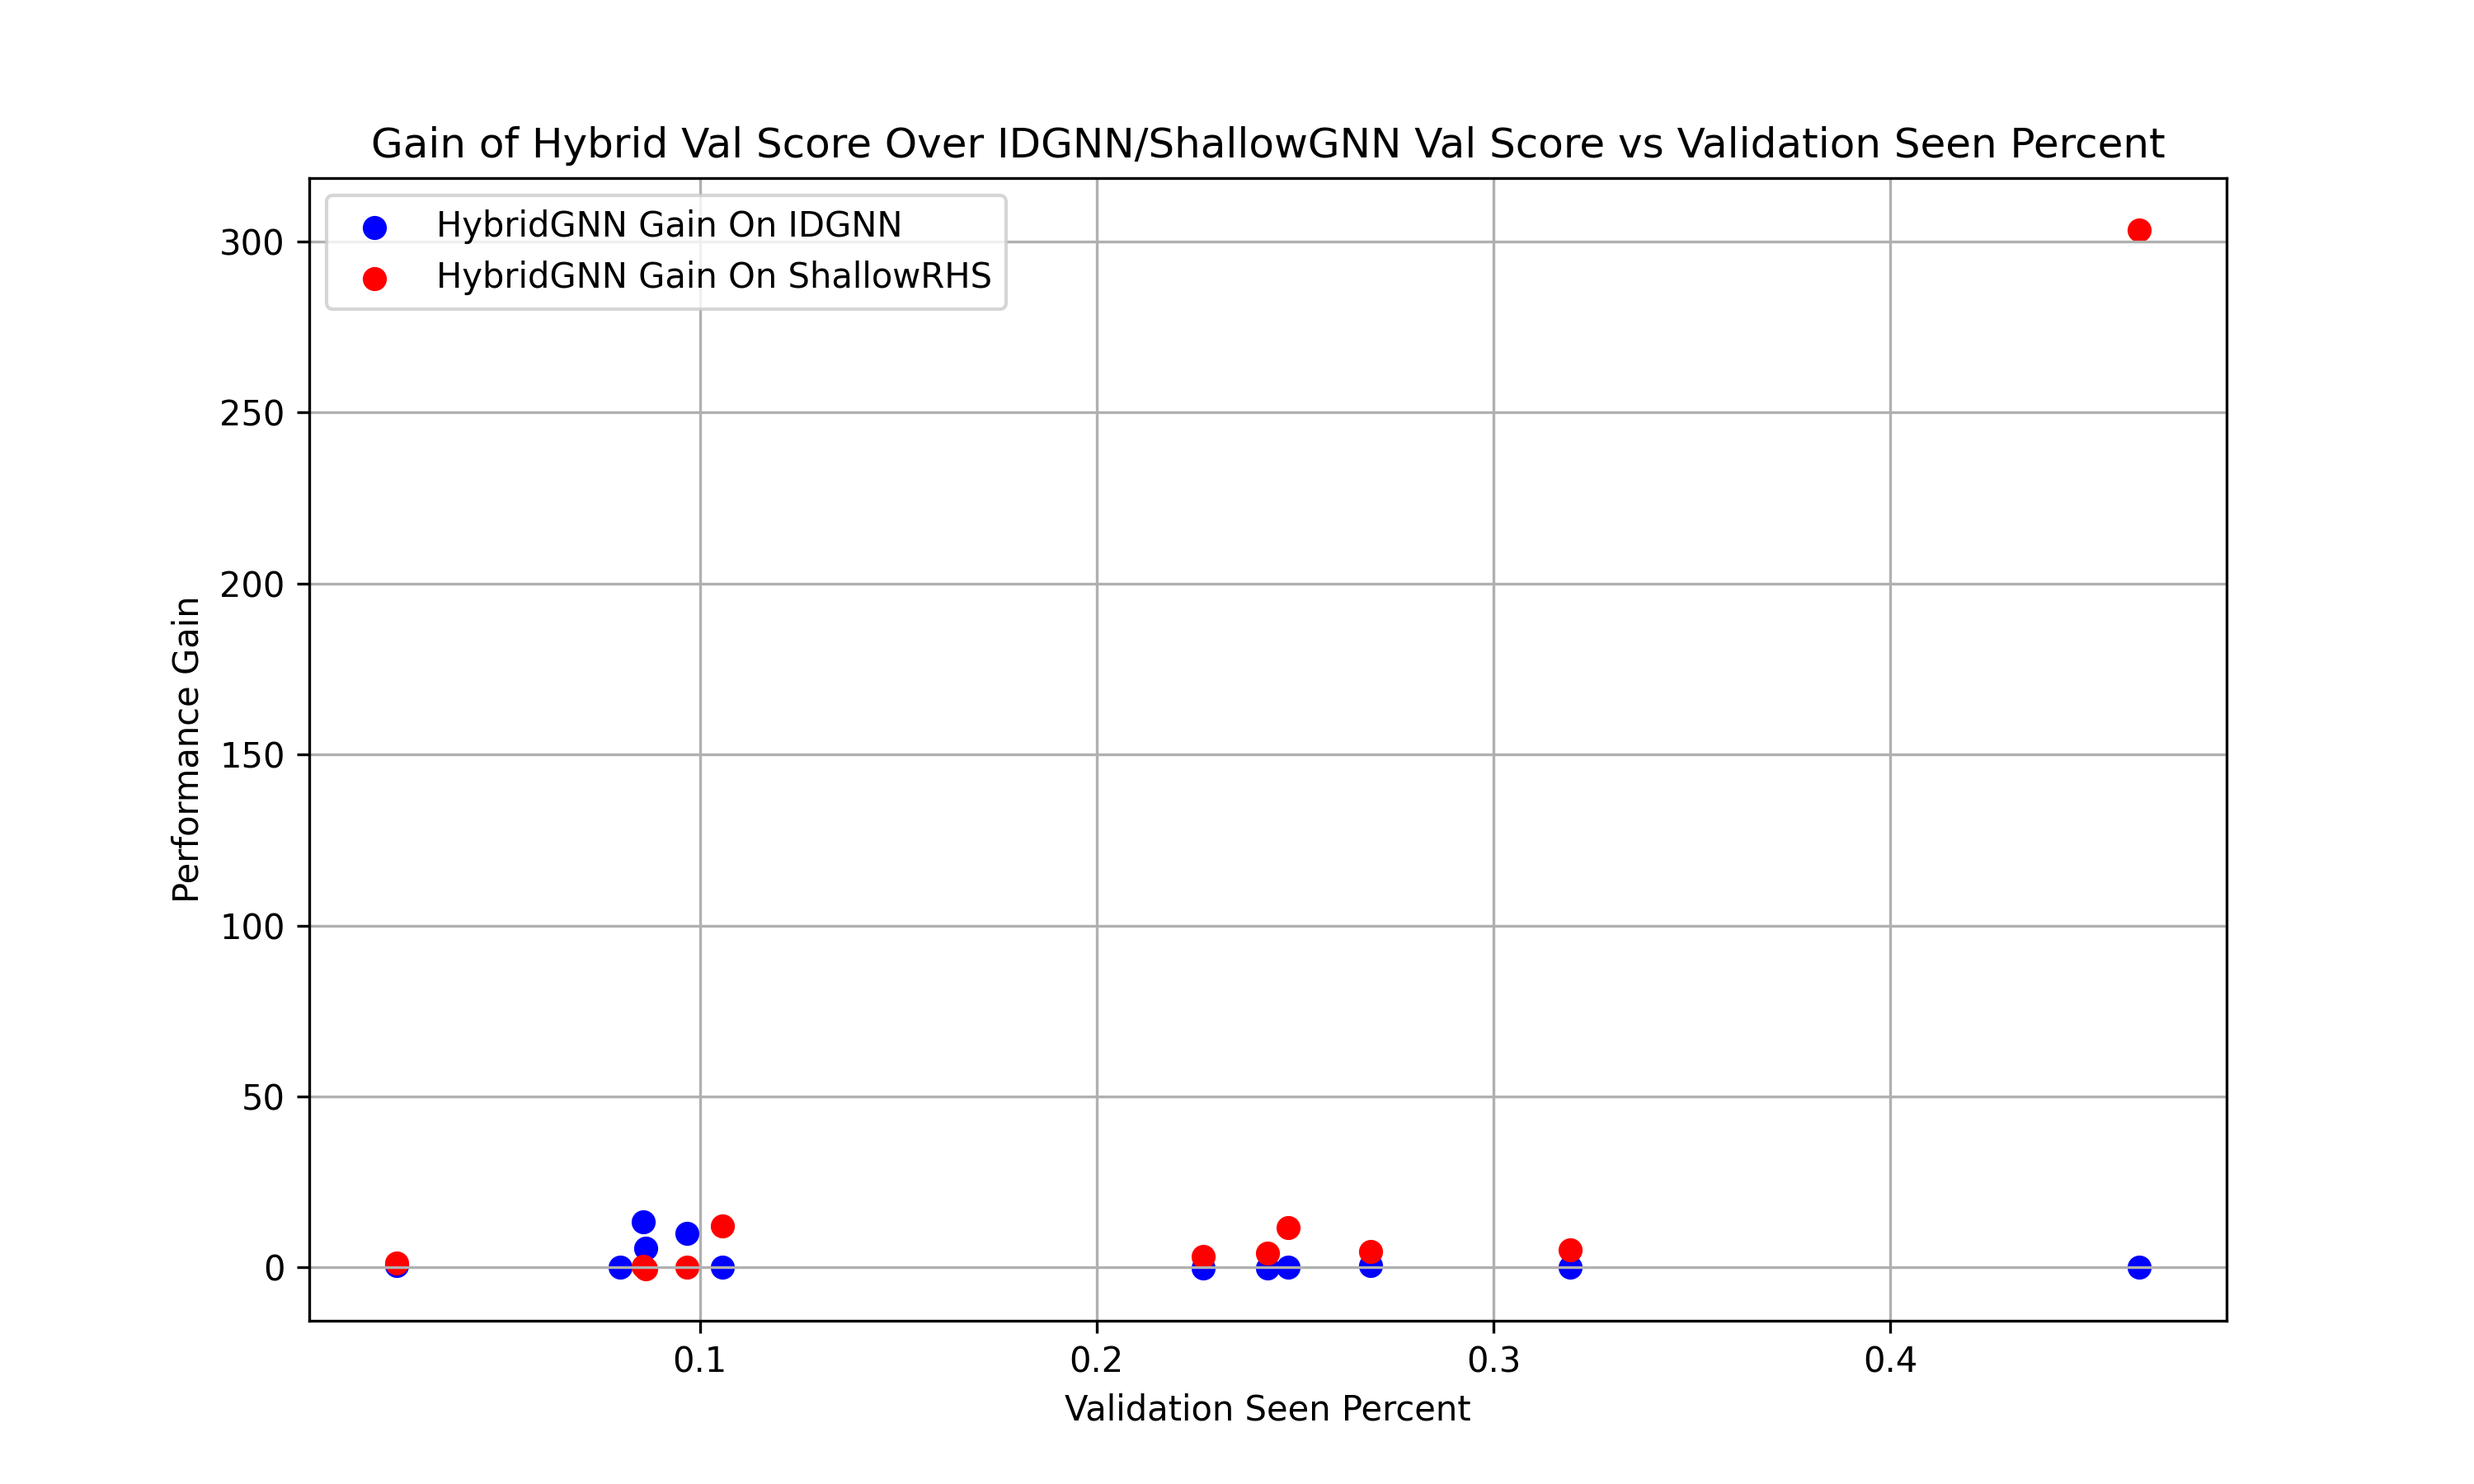
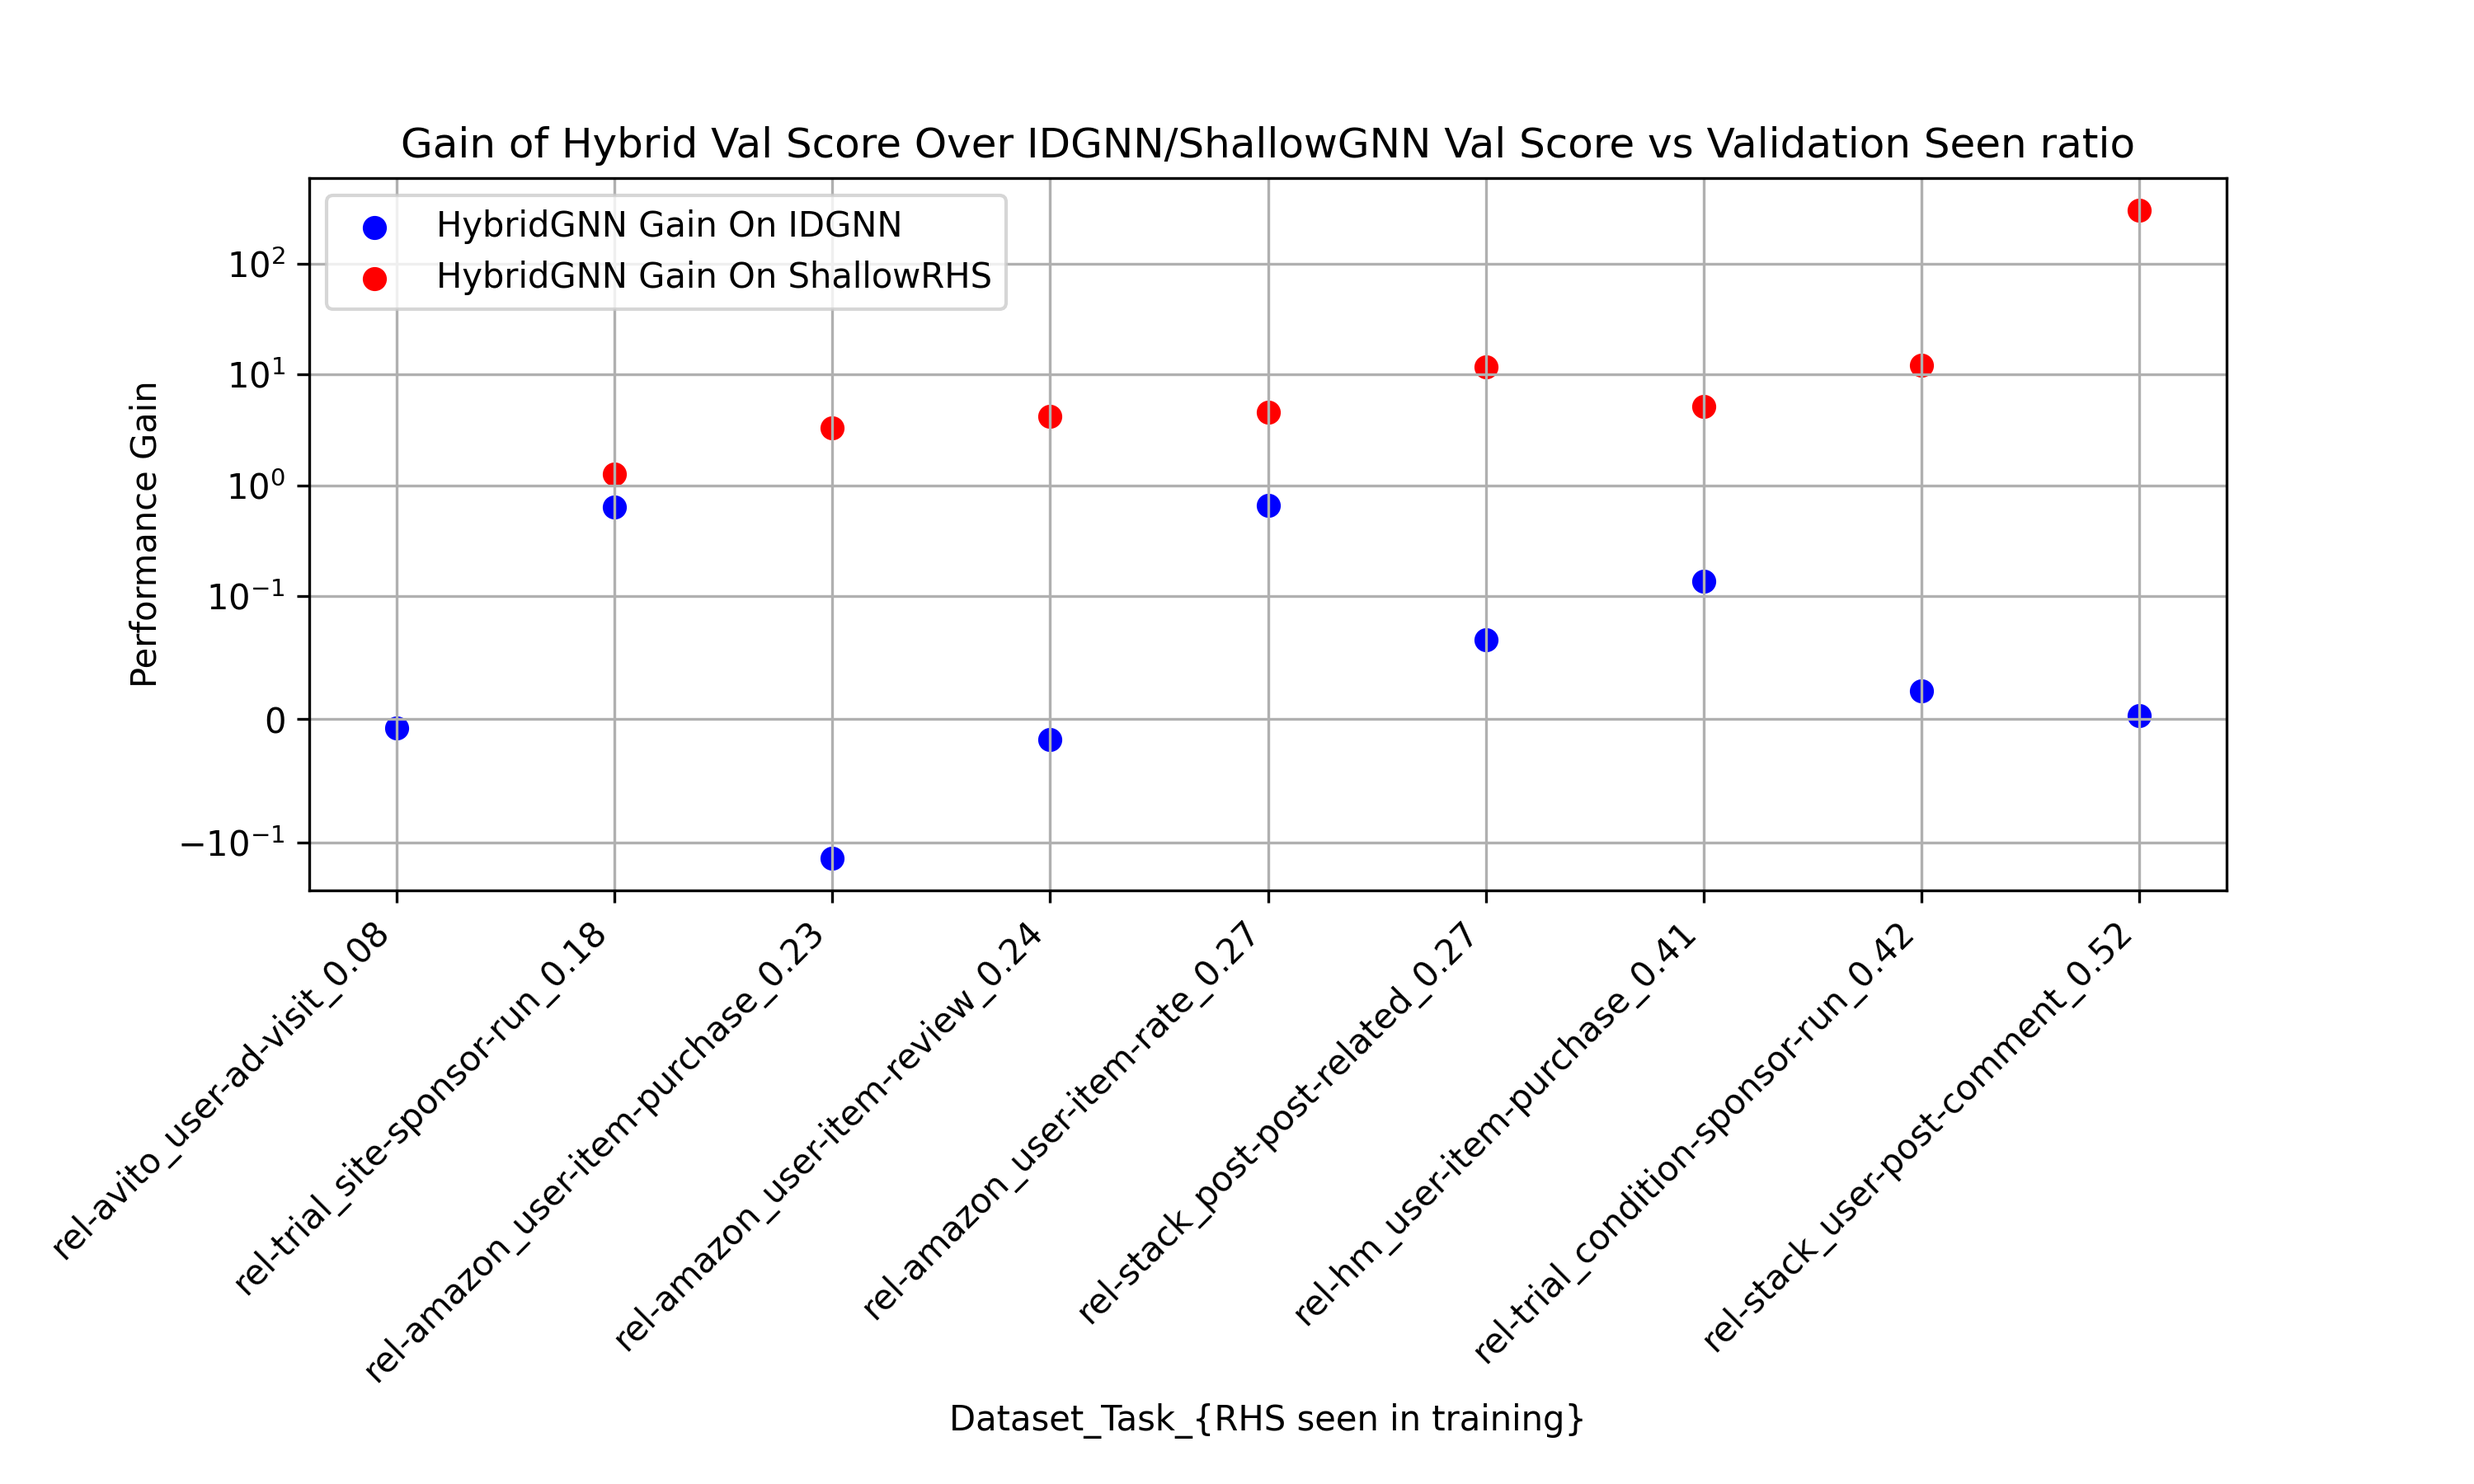
wip

diff --git a/scripts/create_distribution_graph.py b/scripts/create_distribution_graph.py
@@ -6,19 +6,35 @@ def generate_performance_gain(df):
     # Calculate % gain = ((hybrid_test_score - id_test_score) / id_test_score) * 100
     df['val_gain_on_id'] = ((df['hybrid_val_score'] - df['id_val_score']) / df['id_val_score'])
     df['val_gain_on_shallow'] = ((df['hybrid_val_score'] - df['shallow_val_score']) / df['shallow_val_score'])
-
+    df = df.sort_values(by='val_seen_ratio')
+    df['val_seen_ratio'] = df['val_seen_ratio'].round(2).astype(str)
+    df['dataset_task'] = df['Dataset'] + '_' + df['task'] + '_' + df['val_seen_ratio']
+    print(df['val_gain_on_id'])
     # Plot the data
     plt.figure(figsize=(10, 6))
-    plt.scatter(df['val_seen_percent'], df['val_gain_on_id'], color='blue', label='HybridGNN Gain On IDGNN')
+    plt.scatter(df['dataset_task'], df['val_gain_on_id'], color='blue', label='HybridGNN Gain On IDGNN')
 
-    plt.scatter(df['val_seen_percent'], df['val_gain_on_shallow'], color='red', label='HybridGNN Gain On ShallowRHS')
+    plt.scatter(df['dataset_task'], df['val_gain_on_shallow'], color='red', label='HybridGNN Gain On ShallowRHS')
+
+
+    # Customize x-axis labels to show both 'dataset_task' and 'val_seen_ratio'
+    #xticks_labels = [f"{row['dataset_task']}_{row['val_seen_ratio']:.2f}" for _, row in df.iterrows()]
+
+    # Set x-ticks to be val_seen_ratio and labels to be the custom labels with dataset-task and val_seen_ratio
+    #plt.xticks(df['dataset_task'], xticks_labels, rotation=45, ha='right')
+    plt.xticks(rotation=45, ha='right')
+
+    #for x in df['val_seen_ratio']:
+    #    plt.axvline(x=x, color='gray', linestyle='--', alpha=0.5)
     # Add labels and title
-    plt.xlabel('Validation Seen Percent')
+    plt.xlabel('Dataset_Task_{RHS seen in training}')
     plt.ylabel('Performance Gain')
-    plt.title('Gain of Hybrid Val Score Over IDGNN/ShallowGNN Val Score vs Validation Seen Percent')
+    plt.yscale('symlog', linthresh=0.1)
+    plt.title('Gain of Hybrid Val Score Over IDGNN/ShallowGNN Val Score vs Validation Seen ratio')
 
     # Optionally, add grid lines for better readability
     plt.grid(True)
+    plt.subplots_adjust(bottom=0.4)
 
     # Show the plot
     plt.legend()
@@ -30,29 +46,29 @@ def generate_performance_dist(df):
     # Calculate % gain = ((hybrid_test_score - id_test_score) / id_test_score) * 100
     df['sum_of_idgnn_shallow'] = df['id_val_score'] + df['shallow_val_score']
     df['dataset_task_layers'] = df['Dataset'] + '-' + df['task'] + '-' + str(df['num_layers']) + '_layers'
-    df = df.sort_values(by='val_seen_percent')
+    df = df.sort_values(by='val_seen_ratio')
 
     # Plot the data
     plt.figure(figsize=(10, 6))
-    plt.scatter(df['val_seen_percent'], df['sum_of_idgnn_shallow'], color='blue', label='Sum of IDGNN + ShallowRHSGNN')
+    plt.scatter(df['val_seen_ratio'], df['sum_of_idgnn_shallow'], color='blue', label='Sum of IDGNN + ShallowRHSGNN')
 
-    plt.scatter(df['val_seen_percent'], df['hybrid_val_score'], color='red', label='HybridGNN')
-    plt.scatter(df['val_seen_percent'], df['id_val_score'], color='yellow', label='IDGNN')
-    plt.scatter(df['val_seen_percent'], df['shallow_val_score'], color='green', label='ShallowRHSGNN')
+    plt.scatter(df['val_seen_ratio'], df['hybrid_val_score'], color='red', label='HybridGNN')
+    plt.scatter(df['val_seen_ratio'], df['id_val_score'], color='yellow', label='IDGNN')
+    plt.scatter(df['val_seen_ratio'], df['shallow_val_score'], color='green', label='ShallowRHSGNN')
 
 
 
-    # Customize x-axis labels to show both 'dataset_task' and 'val_seen_percent'
-    #xticks_labels = [f"{row['dataset_task_layers']}\n{row['val_seen_percent']:.3f}" for _, row in df.iterrows()]
+    # Customize x-axis labels to show both 'dataset_task' and 'val_seen_ratio'
+    #xticks_labels = [f"{row['dataset_task_layers']}\n{row['val_seen_ratio']:.3f}" for _, row in df.iterrows()]
 
-    # Set x-ticks to be val_seen_percent and labels to be the custom labels with dataset-task and val_seen_percent
-    #plt.xticks(df['val_seen_percent'], xticks_labels, rotation=45, ha='right')
+    # Set x-ticks to be val_seen_ratio and labels to be the custom labels with dataset-task and val_seen_ratio
+    #plt.xticks(df['val_seen_ratio'], xticks_labels, rotation=45, ha='right')
 
-    for x in df['val_seen_percent']:
+    for x in df['val_seen_ratio']:
         plt.axvline(x=x, color='gray', linestyle='--', alpha=0.5)
 
     # Add labels and title
-    plt.xlabel('Validation Seen Percent')
+    plt.xlabel('Validation Seen ratio')
     plt.ylabel('Performance')
     plt.title('Performance Comparison')
 
@@ -65,5 +81,5 @@ def generate_performance_dist(df):
     plt.savefig(f'distribution_2.png', format='png',
                 dpi=300)
 
-generate_performance_dist(df)
+#generate_performance_dist(df)
 generate_performance_gain(df)

diff --git a/scripts/subgraph.py b/scripts/subgraph.py
@@ -25,15 +25,15 @@ from torch_geometric.typing import NodeType
 
 
 parser = argparse.ArgumentParser()
-parser.add_argument("--dataset", type=str, default="rel-trial")
-parser.add_argument("--task", type=str, default="site-sponsor-run")
+parser.add_argument("--dataset", type=str, default="rel-amazon")
+parser.add_argument("--task", type=str, default="user-item-review")
 
 parser.add_argument("--epochs", type=int, default=20)
 parser.add_argument("--eval_epochs_interval", type=int, default=1)
-parser.add_argument("--batch_size", type=int, default=512)
+parser.add_argument("--batch_size", type=int, default=32)
 parser.add_argument("--channels", type=int, default=128)
 parser.add_argument("--aggr", type=str, default="sum")
-parser.add_argument("--num_layers", type=int, default=4)
+parser.add_argument("--num_layers", type=int, default=6)
 parser.add_argument("--num_neighbors", type=int, default=128)
 parser.add_argument("--temporal_strategy", type=str, default="last")
 parser.add_argument("--max_steps_per_epoch", type=int, default=2000)
